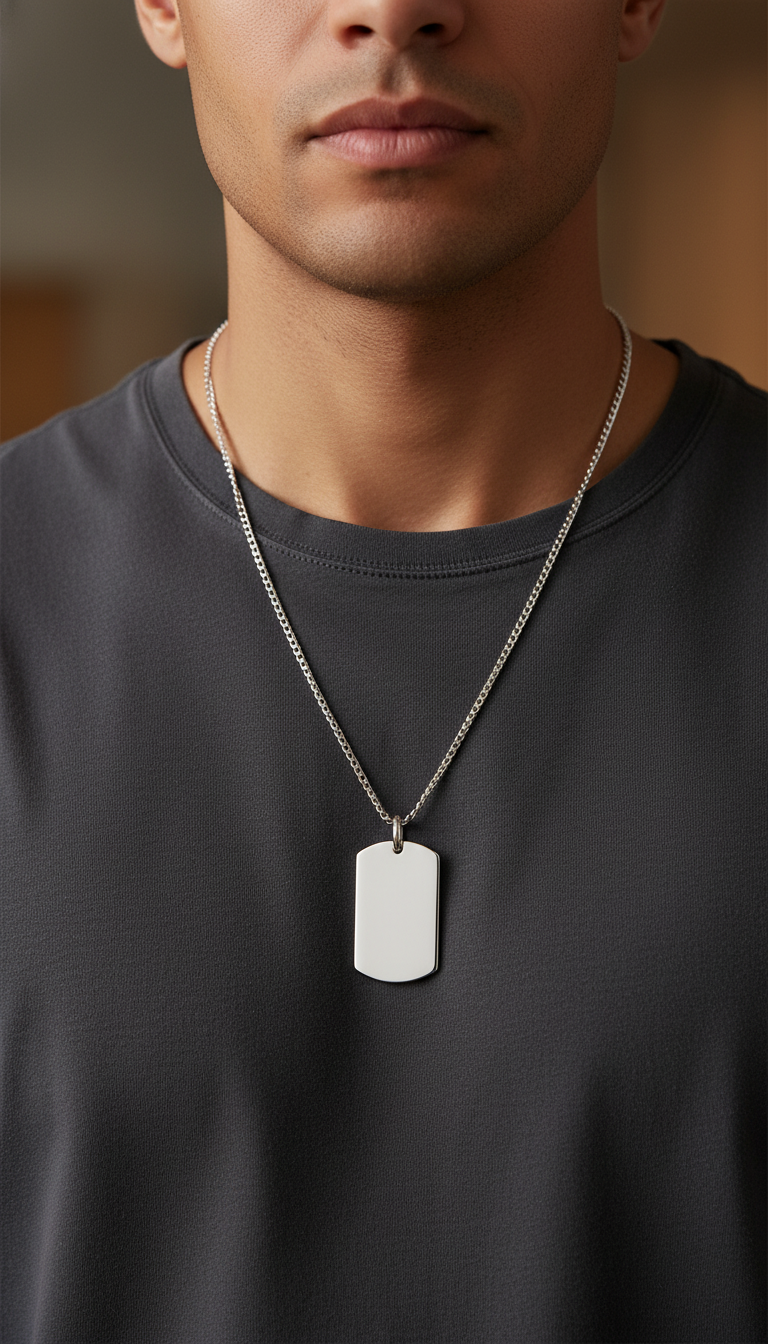
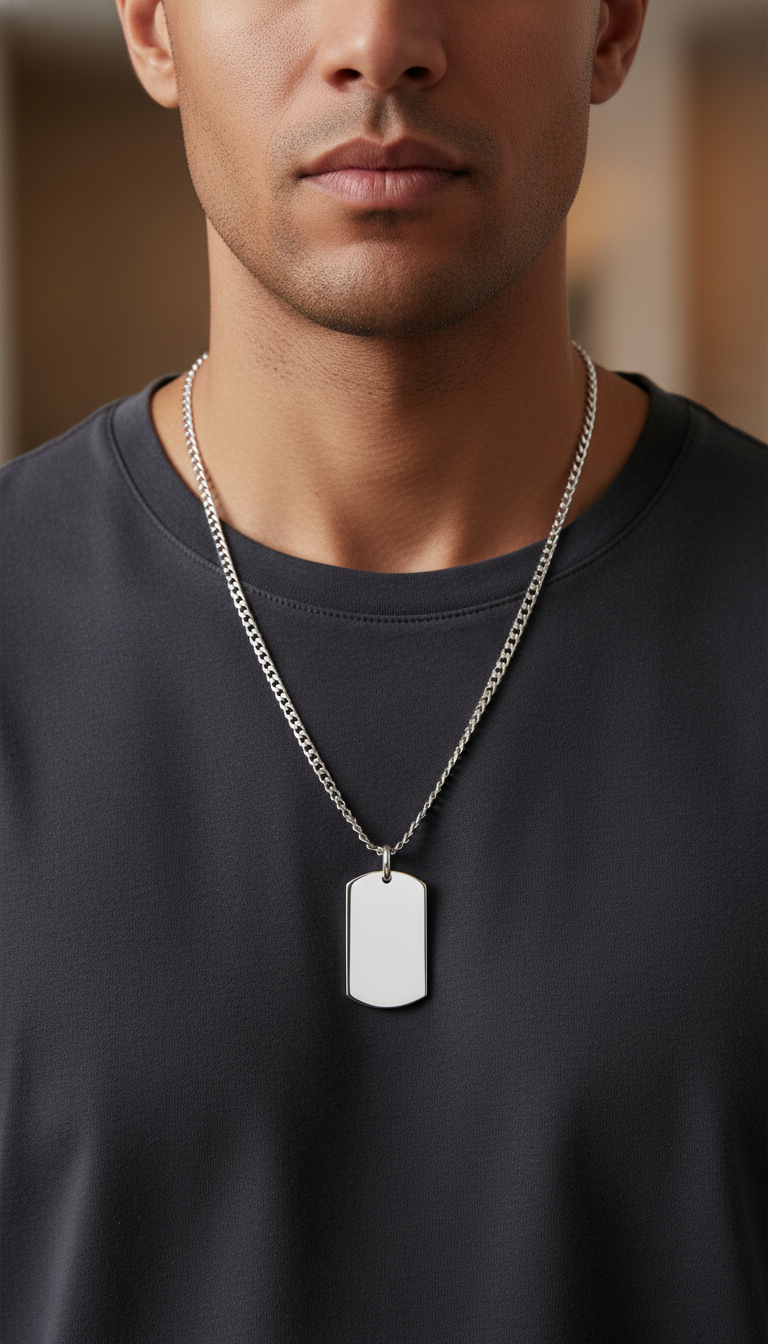
BETA: dog tag brief \u2014 pendant-aware Veo prompts + lifestyle scene + template fixes

diff --git a/brands/aydins/gmc-briefs/2026-05-31-personalized-sterling-silver-dog-tag-pendant/brief.md b/brands/aydins/gmc-briefs/2026-05-31-personalized-sterling-silver-dog-tag-pendant/brief.md
@@ -6,12 +6,12 @@ status: awaiting-amir-gmc-action
 product_id: 8858181697773
 product_handle: personalized-sterling-silver-dog-tag-pendant
 product_title: Personalized Sterling Silver Dog Tag Pendant
-scene_theme: leather_library
+scene_theme: concrete_industrial
 ---
 
 # GMC Brief: Personalized Sterling Silver Dog Tag Pendant
 
-## The image (already restaged via Nano Banana — preserves the real ring)
+## The image (already restaged via Nano Banana — preserves the real pendant)
 ![[restaged.jpg]]
 
 ## What to do (2-3 min in GMC)
@@ -26,23 +26,23 @@ scene_theme: leather_library
 8. BETA Insta watcher (runs every 30 min) auto-detects, generates caption, schedules to IG
 
 ## Recommended prompt to try first
-**Start with Slow Orbit for a classic luxury reveal that emphasizes the ring detail.**
+**Start with Chain Reveal for a classic premium mens jewelry lifestyle motion that builds anticipation toward the pendant.**
 
 ## All 3 prompt variants
 
-### Slow Orbit
+### Chain Reveal
 ```
-Slow clockwise camera orbit around the ring, subtle parallax reveals background depth, smooth cinematic motion, premium product showcase.
-```
-
-### Push In
-```
-Gentle push-in toward the ring, shallow depth of field, soft light shift, premium macro product cinematography.
+Slow camera tilt up the silver chain from pendant to neck, the pendant sways slightly as light catches the polished metal surface, soft warm lighting, premium mens lifestyle cinematography.
 ```
 
-### Parallax Slide
+### Push & Soften
 ```
-Horizontal camera slide left to right, ring stays centered, background reveals layered depth, slow cinematic motion.
+Gentle push-in toward the pendant centered on the chest, shallow depth of field with shirt fabric blurring in the background, soft light shift across the metal face, editorial mens fashion aesthetic.
+```
+
+### Parallax Pull
+```
+Slow horizontal camera slide, pendant stays centered while the wearer's upper chest fabric parallaxes behind, chain catches subtle highlights, cinematic mens lifestyle motion.
 ```
 
 
@@ -53,7 +53,7 @@ Horizontal camera slide left to right, ring stays centered, background reveals l
 - **Shopify admin**: https://aydinsjewelry.myshopify.com/admin/products/8858181697773
 
 ## Scene theme today
-**leather_library**: Ring on aged tan leather surface, with closed leather-bound books and a brass desk lamp in soft focus background. Warm tungsten library lighting. Editorial luxury aesthetic.
+**lifestyle (mens on-neck)**: Pendant on a silver chain at a fit adult man's neck and upper chest. Neutral dark crew-neck cotton tee, soft warm directional light, premium mens fashion editorial aesthetic. (Overrides daily theme rotation for pendants.)
 
 ---
 